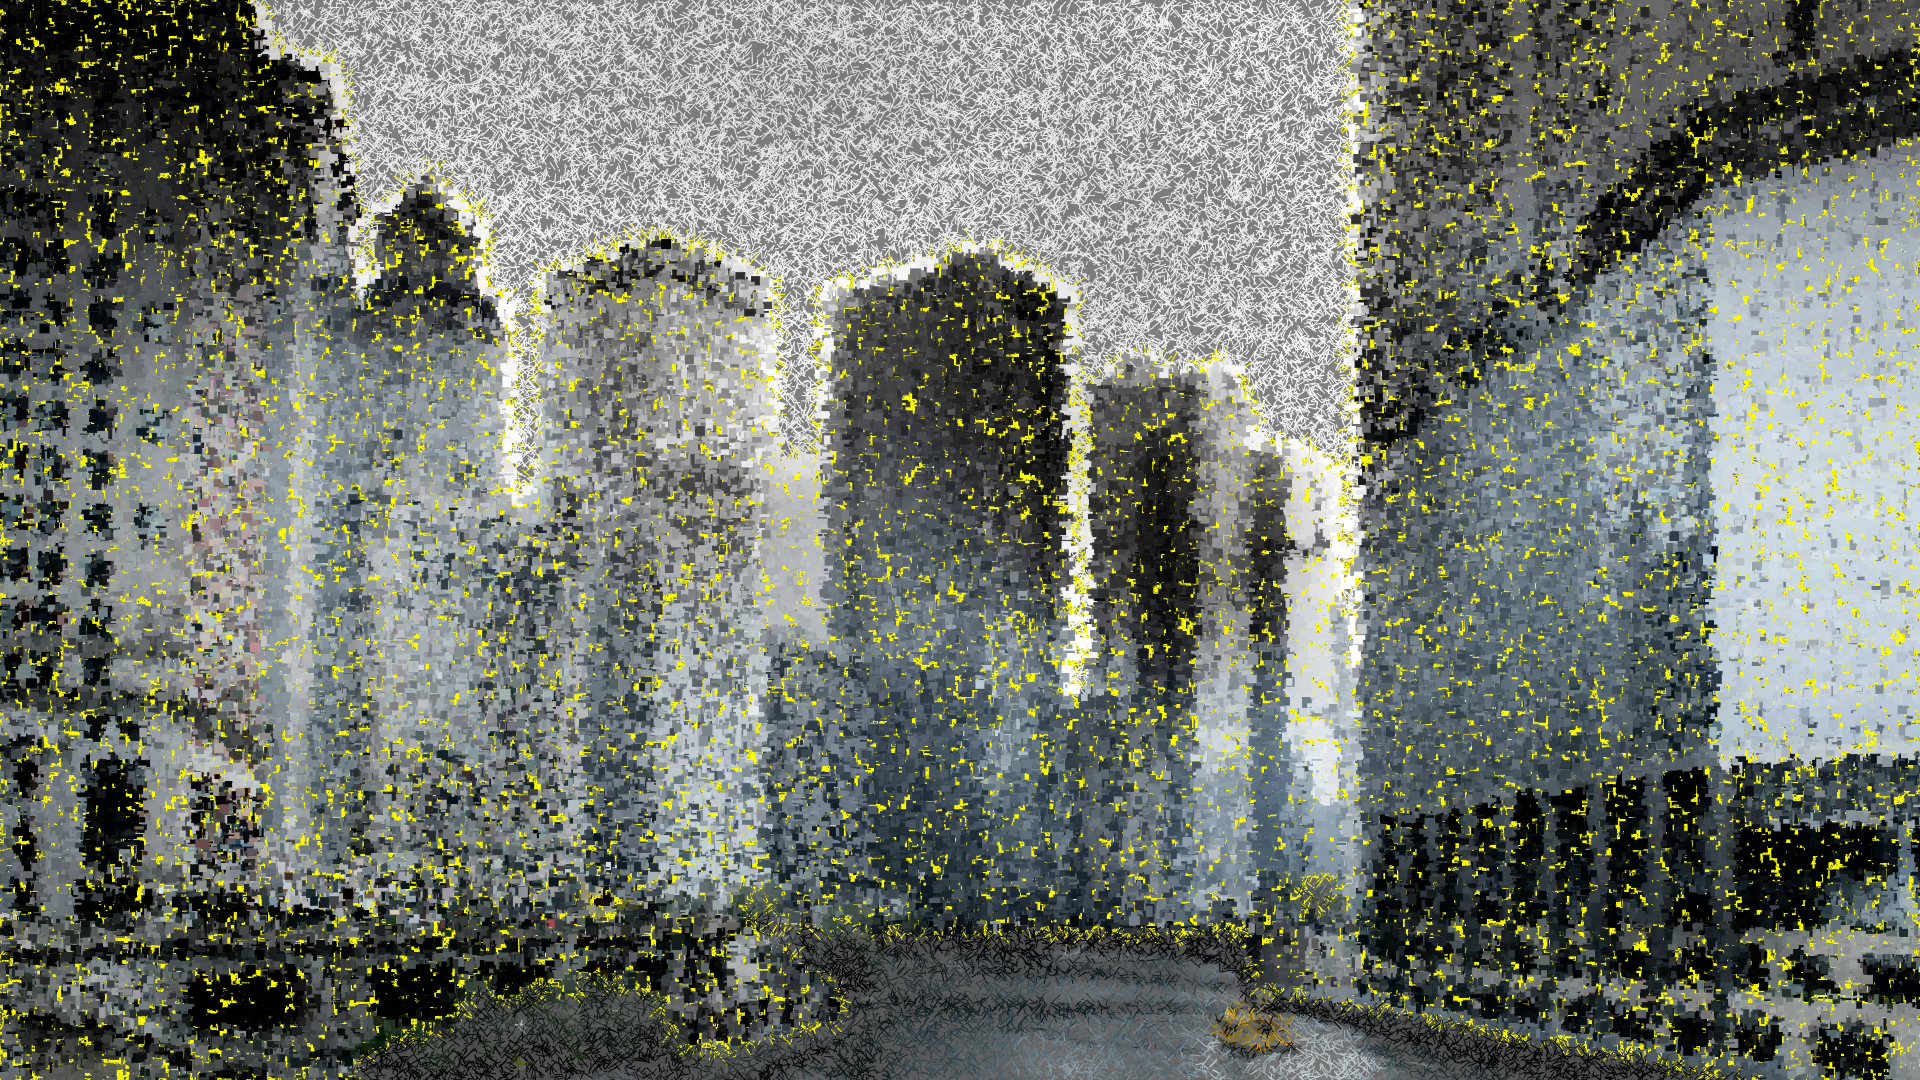
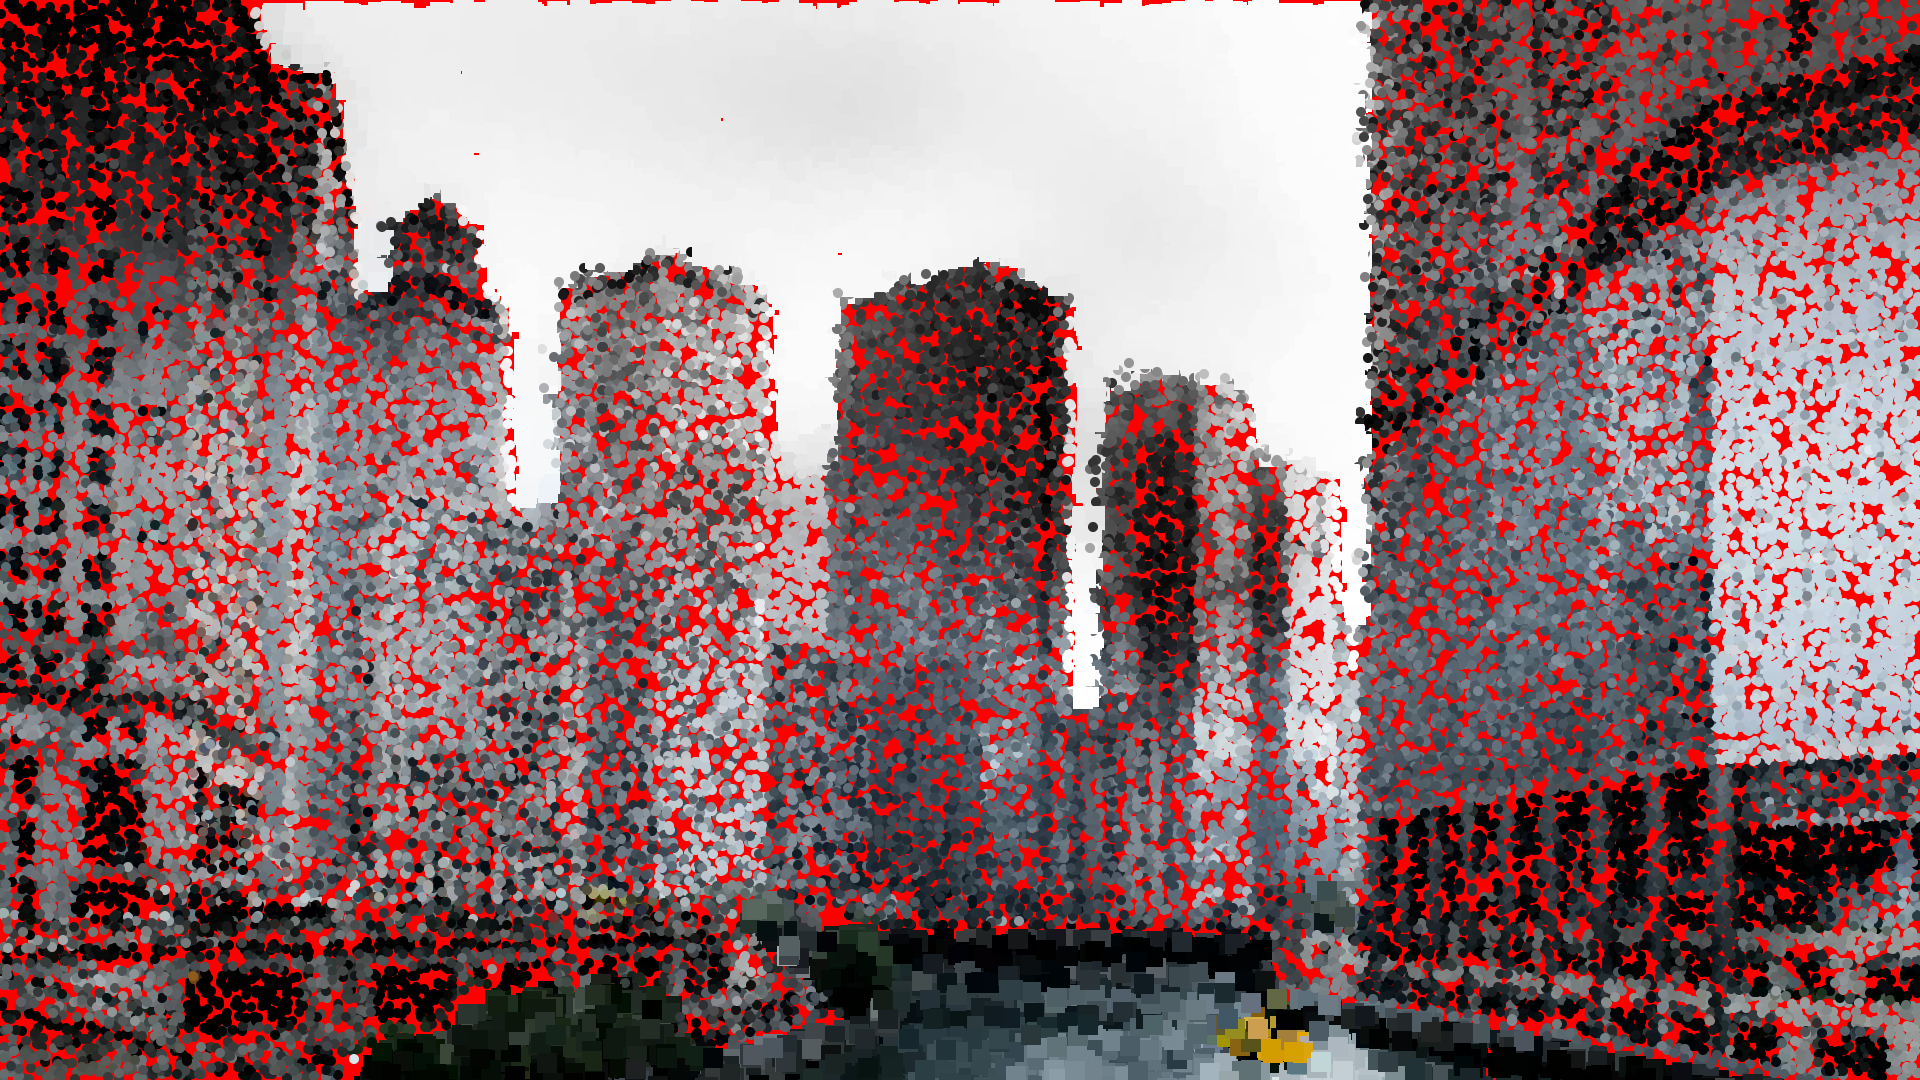
pointilism

diff --git a/render.html b/render.html
@@ -3,7 +3,7 @@
     <script src="z_hsluv-0.0.3.min.js"  type="text/javascript"></script>
     <script language="javascript" type="text/javascript" src="z_purview_helper.js"></script>
     <script language="javascript" type="text/javascript" src="z_color_helper.js"></script>
-    <script language="javascript" type="text/javascript" src="3Layers.js"></script>
+    <script language="javascript" type="text/javascript" src="sketch.js"></script>
 </head>
 <body style="background-color:white">
 <div id="canvasContainer"></div>

diff --git a/sketch.js b/sketch.js
@@ -3,9 +3,9 @@ let maskImg=null;
 let renderCounter=0;
 
 // change these three lines as appropiate
-let sourceFile = "input_2.jpg";
-let maskFile   = "mask_2.png";
-let outputFile = "output_2.png";
+let sourceFile = "input_3.jpg";
+let maskFile   = "mask_3.png";
+let outputFile = "output_3.png";
 
 function preload() {
   sourceImg = loadImage(sourceFile);

diff --git a/README.md b/README.md
@@ -4,4 +4,4 @@
 
 My AI camera is inspired by a small bit of AI prompting showcased by Byron [insert last name] in his lecture "lecture name" for DSDN221 at Te Herenga Waka - Victoria University of Wellington. This involved taking a photo of the atrium at Te Aro Campus and prompting the AI to turn it into an overgrown, green space. I decided I wanted to apply this concept to this assignment by building a filter that resembles growing vines and greenery to be pasted over a recognisable aspect of an urban environment. Initially I thought of using pictures roads in rural places but felt this was an unoriginal and overdone idea. Instead I turned to photos of city skylines and skyscrapers. I was worried the AI would find these difficult to identify as there can be so much variation in buildings but it did surprisingly well and I only ended up running two sets of images through training before I was completely satisfied with the results.
 
-I rendered my initial images with Pheobe Zeller's 3 layer halo code as a starting point.
+I rendered my initial images with Pheobe Zeller's 3 layer halo code, and some basic pointilism as a starting point.
